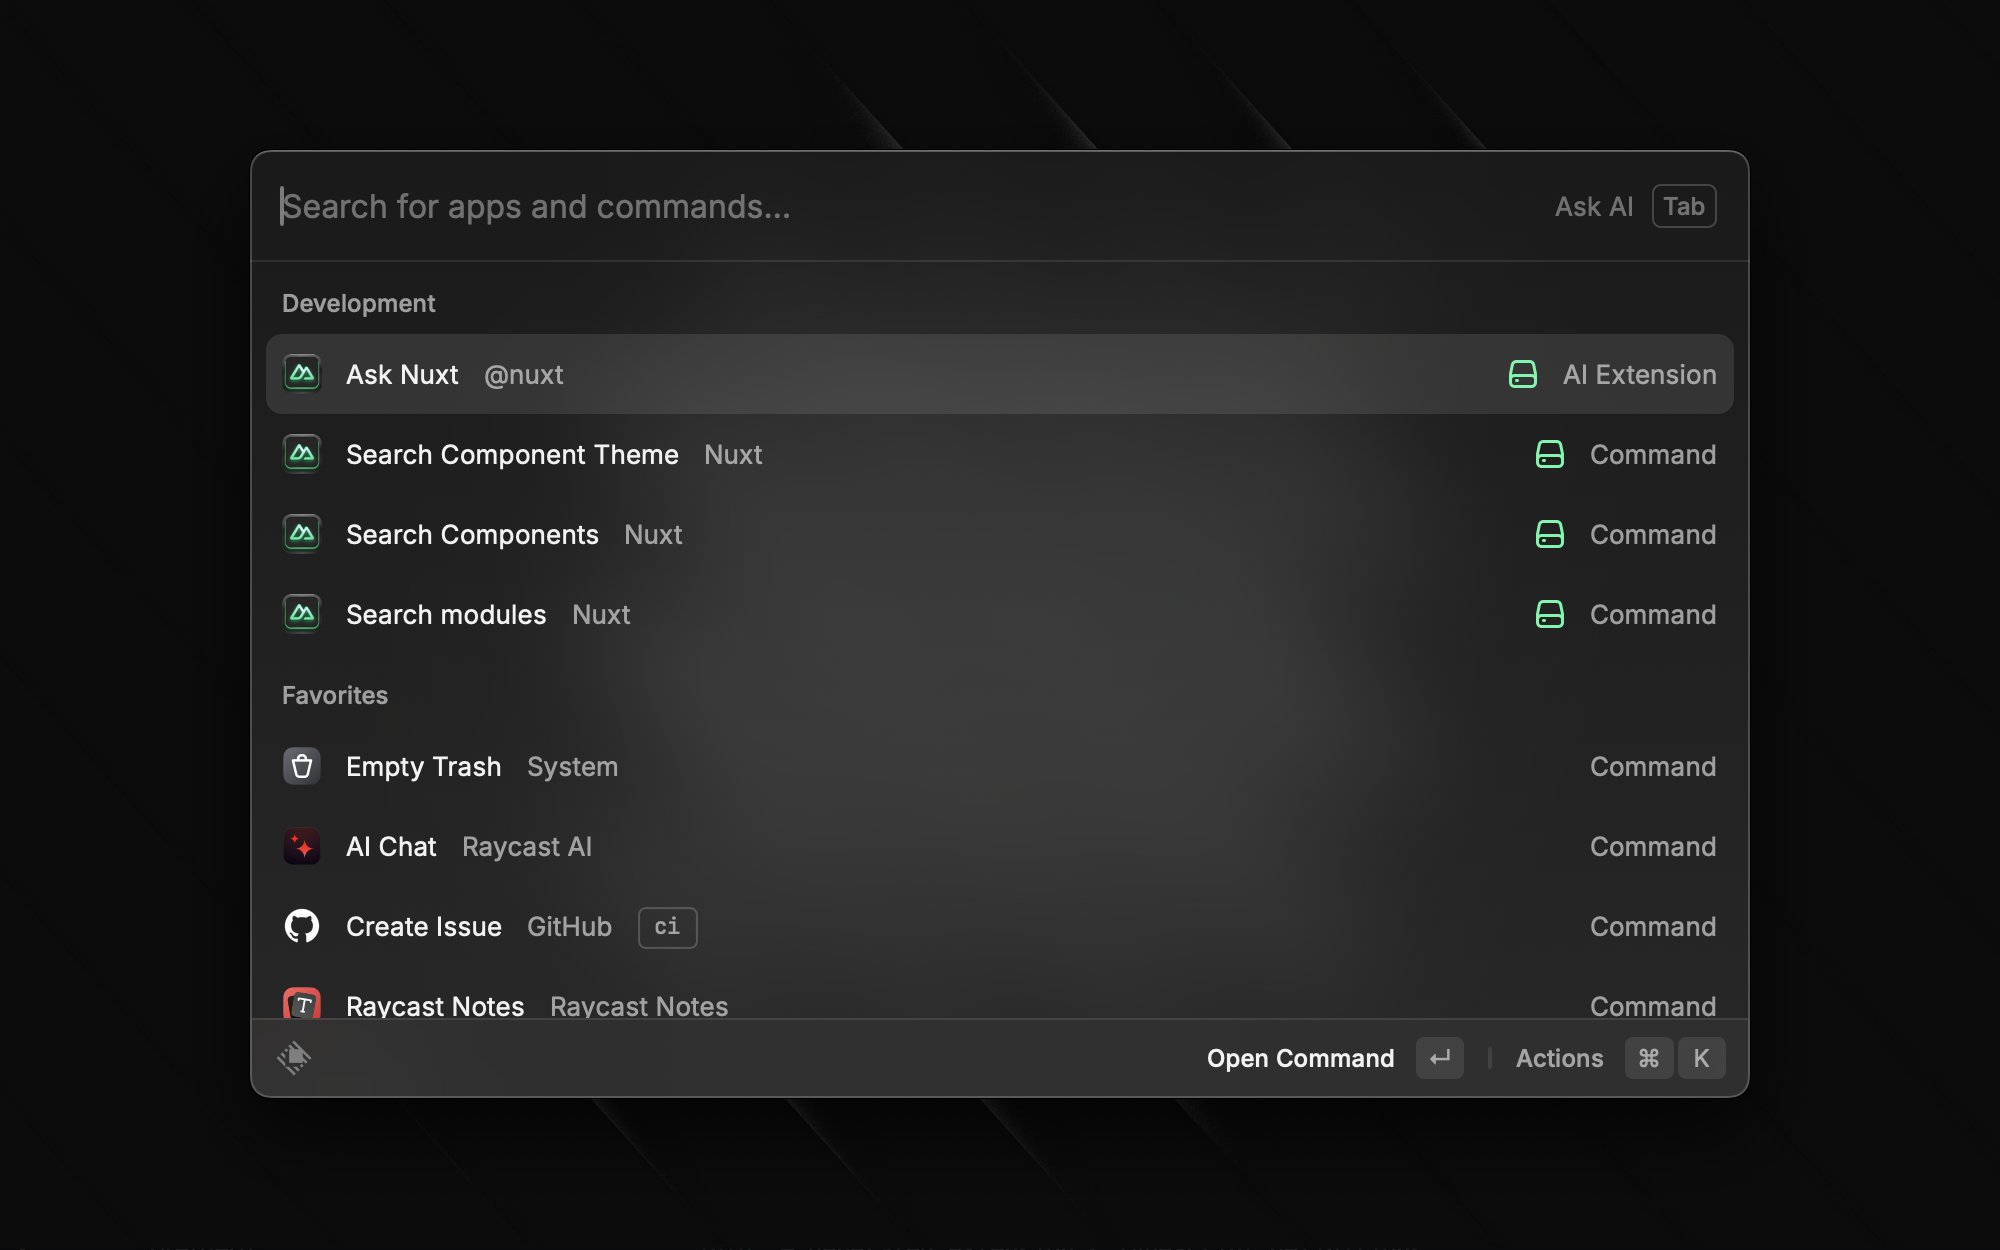
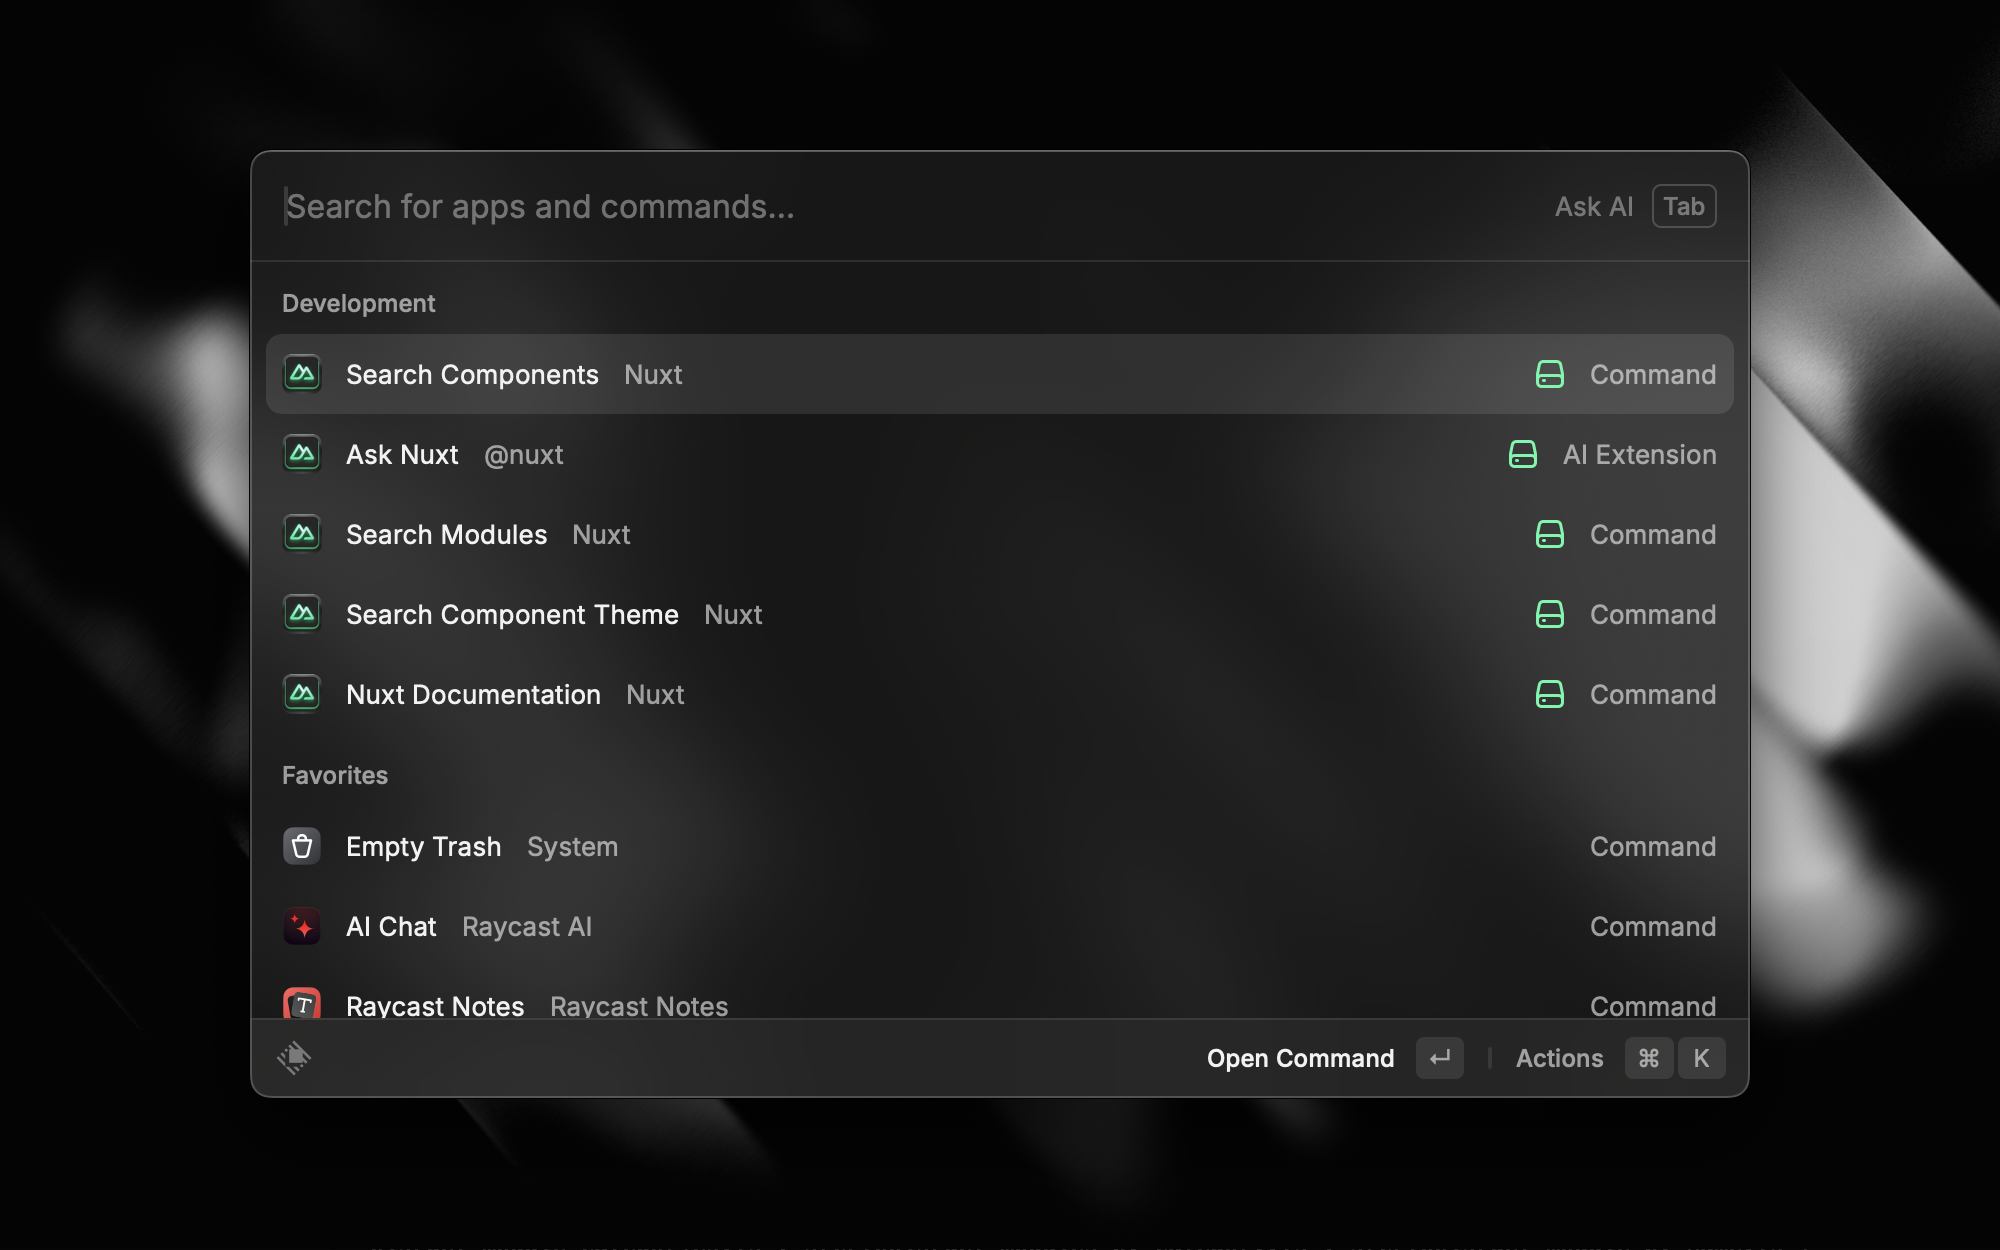
up

diff --git a/README.md b/README.md
@@ -33,6 +33,12 @@ Use the `@nuxt` agent inside Raycast AI Chat:
 - Explore modules and their capabilities
 - Solve common Nuxt development challenges
 
+### 📚 Nuxt Documentation Browser
+- Command: “Nuxt Documentation” (view)
+- Browse official docs by section (Get Started, Guide, API, Examples, Community)
+- Search titles and paths, including deep entries (e.g., WASM, JSX)
+- Opens pages using your versioned base (e.g., `https://nuxt.com/docs/4.x`)
+
 ### 🧩 Nuxt Modules Explorer
 Discover and learn about the vast Nuxt ecosystem:
 - Browse modules by category (UI, CMS, SEO, etc.)
@@ -50,6 +56,7 @@ Access Nuxt UI documentation and tools instantly:
 Customize to match your workflow (Preferences in Raycast):
 - `Prefix` for component names (default: `U`)
 - `Docs URL` for Nuxt UI (default: `https://ui.nuxt.com`)
+- `Nuxt Docs Url` for framework docs (default: `https://nuxt.com/docs/4.x`)
 - `UI Branch` for fetching themes from GitHub (default: `main`)
 
 ## 🎬 See It In Action
